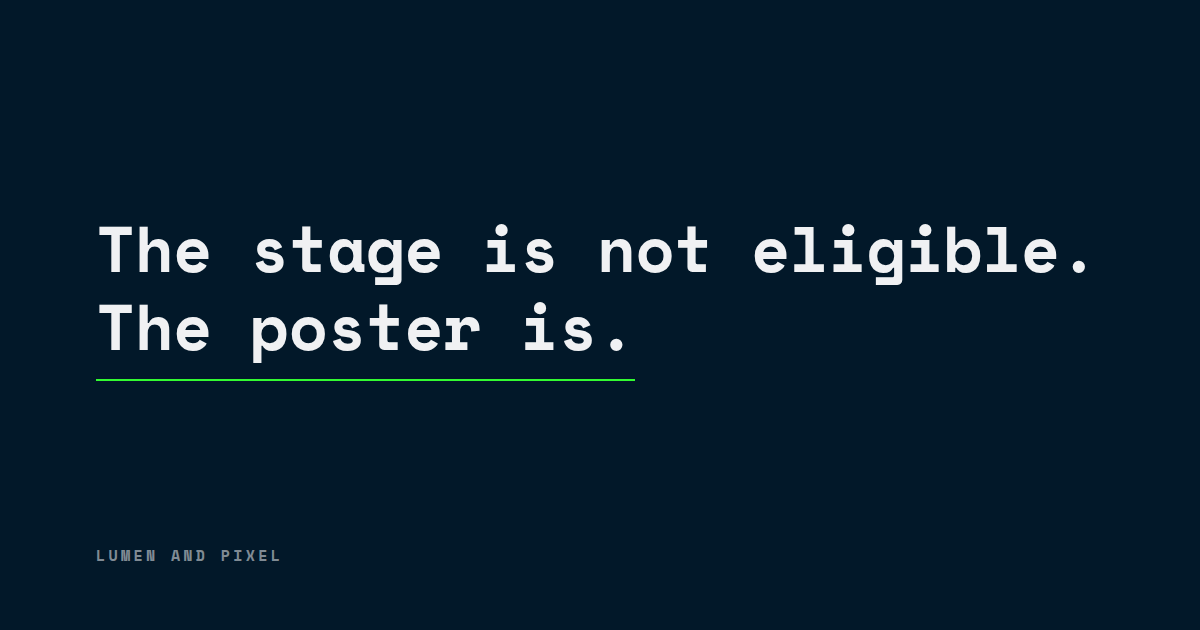
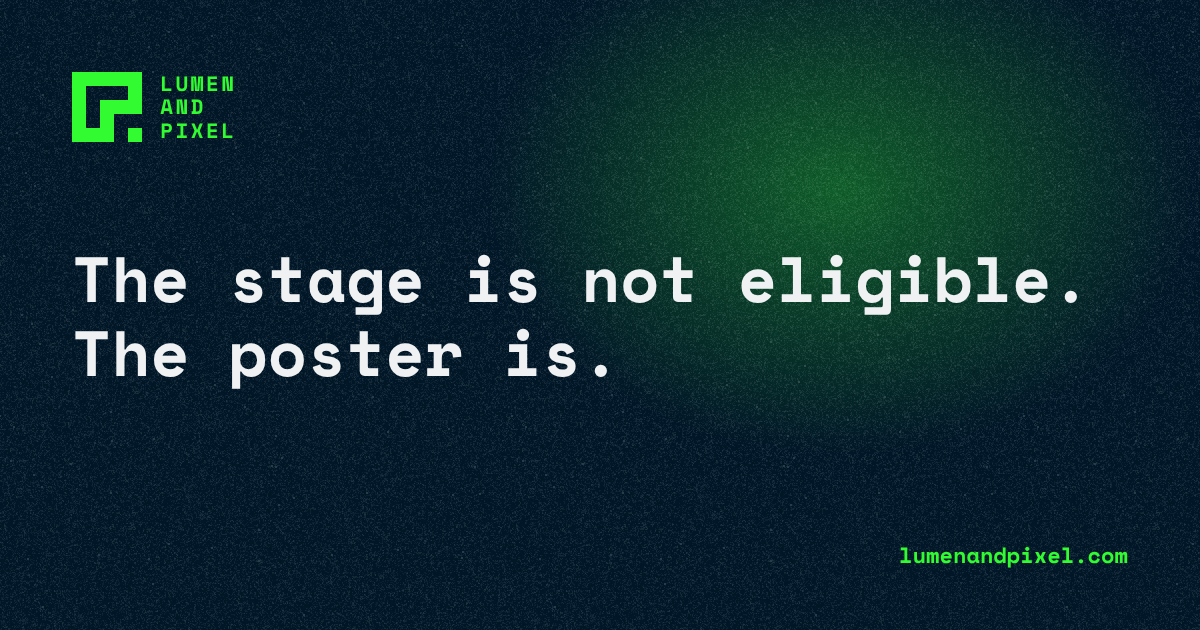
Brand assets: Patch, Pixel Field and grain tiles, OG images to spec (BR2) (#33)
Claude-Session: https://claude.ai/code/session_01TrujDGsZmDV9J2TvgksG4F

diff --git a/_docs/notes/BR2.md b/_docs/notes/BR2.md
@@ -1,0 +1,47 @@
+# BR2: brand assets
+
+## Changelog
+#### Added
+- `images/patterns/patch-tone-dark-s77.svg` and `patch-signal-dark-s77.svg`: the Patch pattern
+  (the mark tiled into a maze) in tone-on-dark and signal-on-dark, seed 77. Each is 1920 × 1152 px
+  (24 px cell, marks 120 px) and repeats with no seam. Signal mode is used nowhere yet (D6).
+- `images/patterns/pixel-field-standard-dark.svg`: the Pixel Field dot matrix (18 px grid, 4 px
+  dots, 3.5% lit in green), 1152 × 1152 px, repeats with no seam.
+- `images/grain-tile-512.png`: the sand grain tile (512 × 512, grain in the alpha channel, repeats
+  with no seam), generated to the Brand Book description (D4).
+- `_tools/patch.mjs`, `_tools/grain.mjs`, `_tools/og.mjs`: the scripts that make the files above
+  and the OG images. Run by hand (`node _tools/patch.mjs`, `node _tools/grain.mjs`,
+  `node _tools/og.mjs`); the output is committed. No new dependency.
+- `images/hero-stage.png`: a copy of the stage photograph that used to be `og-image.png`, kept so
+  the photo is not lost (see the question below).
+
+#### Changed
+- `images/og-image.png`, `images/og/portugal-events-en.png`, `images/og/portugal-events-pt.png`:
+  redrawn to the `og-image` spec (1200 × 630, Signal Glow + grain, lockup top-left, title in Space
+  Mono 700, domain in green bottom-right). Same file names, so no page changed. The article
+  images keep their titles; the site image now reads "The creative is ready. Is the system?".
+
+## Roadmap
+BR2 built: Patch and Pixel Field tiles from a seeded generator, the sand grain tile, OG images to
+spec. How it works: the header comment of each script in `_tools/`, and `_docs/BRAND_REFRESH.md`,
+"Names every step relies on".
+
+## Pending: test lines (section 2)
+- Open the preview's home, services and 404 pages: is the grain the right strength? (Too strong or
+  too faint is a one-number change in `_tools/grain.mjs`.)
+- Paste a page link and the Portugal Events article link (EN and PT) into WhatsApp or LinkedIn
+  after release: the new card should show. Old cards can stay cached for days.
+
+## Pending: new questions (section 3)
+- The site-wide OG image needs a title. Options: the home headline, a tagline of yours, or no
+  title (lockup and domain only). Assumed: the home headline "The creative is ready. Is the
+  system?", in English for both languages (one file serves EN and PT pages).
+- The home hero used `images/og-image.png` (a stage photograph) as its background. D6 replaces
+  that hero with Signal Glow + grain. Keep the photograph for later use, or delete it? Assumed:
+  keep, as `images/hero-stage.png` (477 KB, used by nothing).
+- Favicon and app icons: the mark's pixel is #00ff40 and its body #32ff32 (the Brand Book wants
+  one colour, #33fb31). Supply corrected files, or have an agent redraw them from the mark in
+  `DESIGN.md`? Assumed: nothing changed.
+
+## Session prompt
+BR2
